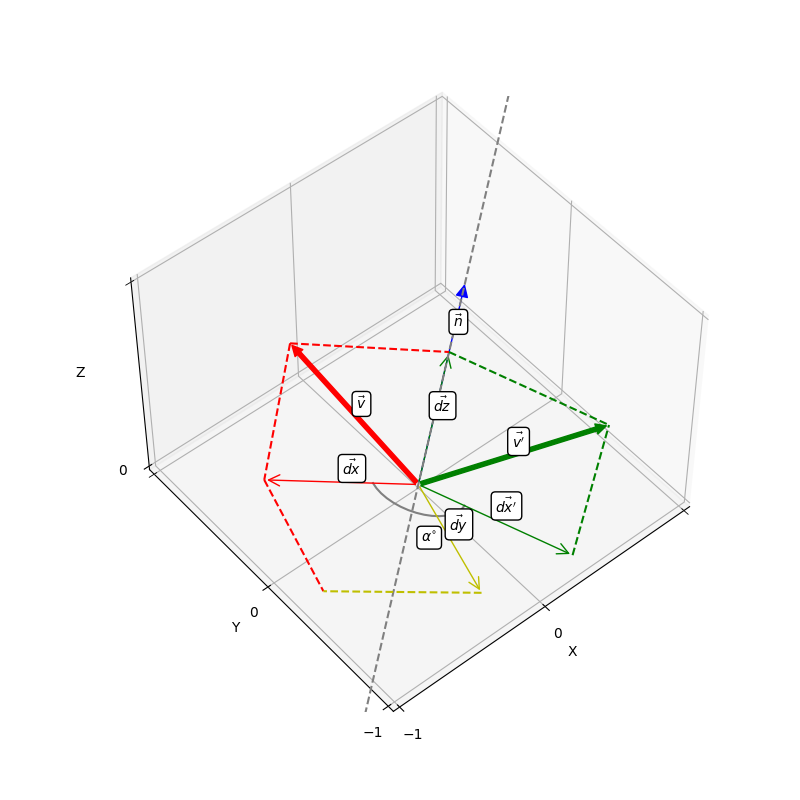
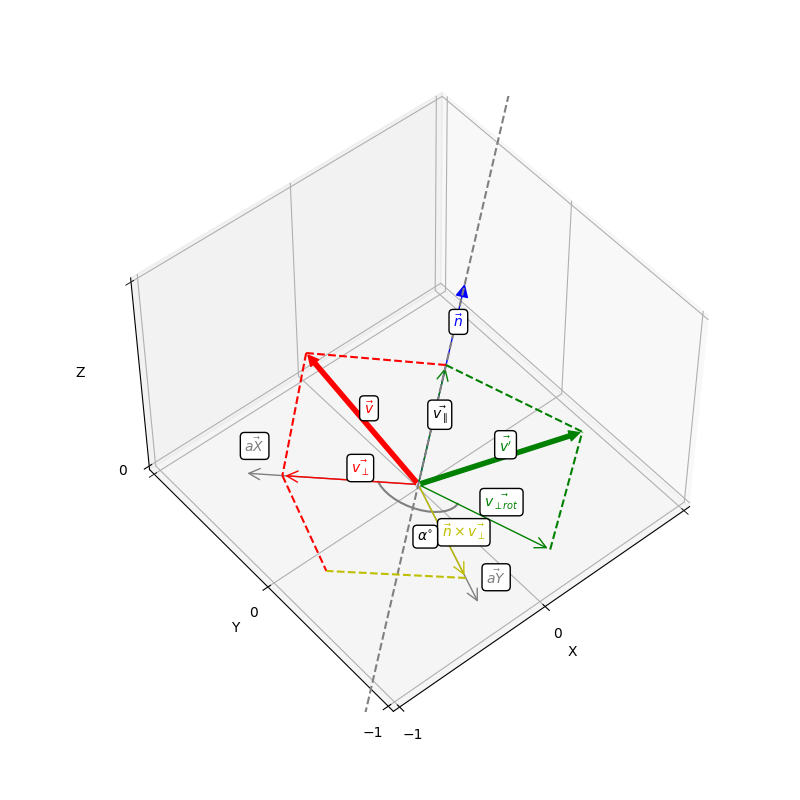
rotation - finish

diff --git a/articles/article1/figures.py b/articles/article1/figures.py
@@ -327,23 +327,23 @@ def picture8():
     ax.add_artist(Annotation3D(r'$\vec{a}$', np.multiply(v_a, 0.5), 
                     xytext=(0, 10),
                     textcoords='offset points',
-                    bbox=dict(boxstyle="round", fc="white")))
+                    bbox=dict(boxstyle="round", fc="white"), c="r"))
 
     ax.add_artist(Annotation3D(r'$\vec{b}$', np.multiply(v_b, 0.5), 
                     xytext=(5, 10),
                     textcoords='offset points',
-                    bbox=dict(boxstyle="round", fc="white")))
+                    bbox=dict(boxstyle="round", fc="white"), c="g"))
 
     ax.add_artist(Annotation3D(r'$\vec{c}$', np.multiply(v_c, 0.5), 
                     xytext=(0, 10),
                     textcoords='offset points',
-                    bbox=dict(boxstyle="round", fc="white")))
+                    bbox=dict(boxstyle="round", fc="white"), c="b"))
     ax.view_init(elev=15., azim=60)
     ax.figure.savefig('./assets/Figure_8.png')
 
 
 def picture9():
-    v = np.array([-0.6, 0.3, 0.9])
+    v = np.array([-0.5, 0.3, 0.8])
     n = np.array(normalized([1, 0, 3]))
     angle = 140 * (math.pi / 180)
 
@@ -353,10 +353,14 @@ def picture9():
     v_dx_dy = dx * math.cos(angle) + dy * math.sin(angle)
     v_ = v_dx_dy + dz
 
+    axisX, axisY = normalized(dx), normalized(dy)
+
     fig, ax = create_plot_with_grid_3d()
     ax.set_xlim(-1, 1)
     ax.set_ylim(-1, 1)
     ax.set_zlim(0, 1)
+    ax.add_artist(Arrow3D(0, 0, 0, *list(axisX), mutation_scale=20, arrowstyle="->", fc='gray', ec='gray'))
+    ax.add_artist(Arrow3D(0, 0, 0, *list(axisY), mutation_scale=20, arrowstyle="->", fc='gray', ec='gray'))
     ax.add_artist(Arrow3D(0, 0, 0, *list(v), mutation_scale=15, fc='r', ec='r'))
     ax.add_artist(Arrow3D(0, 0, 0, *list(n), mutation_scale=20, arrowstyle="-|>", fc='b', ec='b'))
     ax.add_artist(Arrow3D(0, 0, 0, *list(v_), mutation_scale=15, fc='g', ec='g'))
@@ -383,42 +387,52 @@ def picture9():
     ax.add_artist(Annotation3D(r'$\vec{n}$', np.multiply(n, 0.75), 
                     xytext=(0, 5),
                     textcoords='offset points',
-                    bbox=dict(boxstyle="round", fc="white")))
+                    bbox=dict(boxstyle="round", fc="white"), c="b"))
 
-    ax.add_artist(Annotation3D(r'$\vec{dz}$', np.multiply(dz, 0.5), 
+    ax.add_artist(Annotation3D(r'$\vec{v_\parallel}$', np.multiply(dz, 0.5), 
                     xytext=(0, 5),
                     textcoords='offset points',
                     bbox=dict(boxstyle="round", fc="white")))
 
-    ax.add_artist(Annotation3D(r'$\vec{dx}$', np.multiply(dx, 0.5), 
+    ax.add_artist(Annotation3D(r'$\vec{v_\perp}$', np.multiply(dx, 0.5), 
                     xytext=(0, 5),
                     textcoords='offset points',
-                    bbox=dict(boxstyle="round", fc="white")))
+                    bbox=dict(boxstyle="round", fc="white"), c="r"))
 
-    ax.add_artist(Annotation3D(r'$\vec{dy}$', np.multiply(dy, 0.5), 
-                    xytext=(0, 5),
+    ax.add_artist(Annotation3D(r'$\vec{n} \times \vec{v_\perp}$', np.multiply(dy, 0.5), 
+                    xytext=(0, -5),
                     textcoords='offset points',
-                    bbox=dict(boxstyle="round", fc="white")))
+                    bbox=dict(boxstyle="round", fc="white"), c="y"))
 
     ax.add_artist(Annotation3D(r'$\vec{v}$', np.multiply(v, 0.5), 
                     xytext=(0, 5),
                     textcoords='offset points',
-                    bbox=dict(boxstyle="round", fc="white")))
+                    bbox=dict(boxstyle="round", fc="white"), c="r"))
 
     ax.add_artist(Annotation3D(r"$\vec{v'}$", np.multiply(v_, 0.5), 
                     xytext=(0, 5),
                     textcoords='offset points',
-                    bbox=dict(boxstyle="round", fc="white")))
+                    bbox=dict(boxstyle="round", fc="white"), c="g"))
 
-    ax.add_artist(Annotation3D(r"$\vec{dx'}$", np.multiply(v_dx_dy, 0.5), 
-                    xytext=(0, 5),
+    ax.add_artist(Annotation3D(r"$\vec{v_{\perp rot}}$", np.multiply(v_dx_dy, 0.5), 
+                    xytext=(0, 7),
                     textcoords='offset points',
-                    bbox=dict(boxstyle="round", fc="white")))
+                    bbox=dict(boxstyle="round", fc="white"), c="g"))
 
     ax.add_artist(Annotation3D(r"$\alpha^{\circ}$", np.multiply(normalized(dx + v_dx_dy), 0.4), 
                     xytext=(0, -10),
                     textcoords='offset points',
                     bbox=dict(boxstyle="round", fc="white")))
+
+    ax.add_artist(Annotation3D(r"$\vec{aX}$", np.multiply(axisX, 1.0), 
+                    xytext=(0, 15),
+                    textcoords='offset points',
+                    bbox=dict(boxstyle="round", fc="white"), c="gray"))
+
+    ax.add_artist(Annotation3D(r"$\vec{aY}$", np.multiply(axisY, 1.0), 
+                    xytext=(5, 15),
+                    textcoords='offset points',
+                    bbox=dict(boxstyle="round", fc="white"), c="gray"))
 
     ax.view_init(elev=50, azim=-130)
     ax.figure.savefig('./assets/Figure_9.png')

diff --git a/articles/article1/ru.md b/articles/article1/ru.md
@@ -14,7 +14,7 @@
 $\vec v = (x, y)^T$, где $x$ и $y$ - компоненты вектора, значения проекций вектора на оси двумерных координат. И мы видим прямоугольный треугольник, где $x$ и $y$ - это длины катетов, $l$ - выходит длина его гипотенузы. По теореме Пифагора получается, что $l = \sqrt{x^2 + y^2}$. Значит $l = |\vec v| = \sqrt{x^2 + y^2}$. Вид формулы сохраняется и для векторов большей размерности, например -- $l = |\vec v| = |\begin{pmatrix} x & y & z & w\end{pmatrix}^T| = \sqrt{x^2 + y^2 + z^2 + w^2}$.
 
 ### Скалярное произведение.
-Теперь разберемся с тем, что такое скалярное произведение векторов. Это сумма произведение их компонентов: $s = \vec a \cdot \vec b = a_x \cdot b_x + a_y \cdot b_y + a_z \cdot b_z$. Но так как мы знаем, что вектора - это матрицы, то тогда удобнее записать это в таком виде: $s = \vec{a}^T \vec{b}$. Это же произведение можно записать в другом виде: $s = {\vec a}^T \cdot \vec b = |\vec a| \cdot |vec b| \cdot \cos(\delta)$, где $\delta$ - угол между векторами $\vec a$ и $\vec b$ (для двумерного случая эта формула доказывается через теорему косинусов). По этой формуле можно заключить, что скалярное произведение - это мера сонаправленности векторов. Ведь, если $\delta = 0^{\circ}$, то $\cos(\delta) = 1$, и $s$ - это просто произведение длин векторов. Так как $\cos(\delta)$ - не может быть больше 1, то это максимальное значение, которые мы можем получить, изменяя только угол $\delta$. Минимальное значение $\cos(\delta)$ будет равно -1, и получается при $\delta = 180^{\circ}$, т.е. когда вектора смотрят в противоположные направления. Также заметим, что при $\delta = 90^{\circ}$ $\cos(\delta)=0$, а значит какие бы длины не имели вектора $\vec a$ и $\vec b$ -- $s = 0$. Можно в таком случае сказать, что вектора не имеют общего направления, и называются ортогональными. 
+Теперь разберемся с тем, что такое скалярное произведение векторов. Это сумма произведение их компонентов: $s = \vec a \cdot \vec b = a_x \cdot b_x + a_y \cdot b_y + a_z \cdot b_z$. Но так как мы знаем, что вектора - это матрицы, то тогда удобнее записать это в таком виде: $s = \vec{a}^T \vec{b}$. Это же произведение можно записать в другом виде: $s = {\vec a}^T \cdot \vec b = |\vec a| \cdot |vec b| \cdot \cos{\delta}$, где $\delta$ - угол между векторами $\vec a$ и $\vec b$ (для двумерного случая эта формула доказывается через теорему косинусов). По этой формуле можно заключить, что скалярное произведение - это мера сонаправленности векторов. Ведь, если $\delta = 0^{\circ}$, то $\cos{\delta} = 1$, и $s$ - это просто произведение длин векторов. Так как $\cos{\delta}$ - не может быть больше 1, то это максимальное значение, которые мы можем получить, изменяя только угол $\delta$. Минимальное значение $\cos{\delta}$ будет равно -1, и получается при $\delta = 180^{\circ}$, т.е. когда вектора смотрят в противоположные направления. Также заметим, что при $\delta = 90^{\circ}$ $\cos{\delta}=0$, а значит какие бы длины не имели вектора $\vec a$ и $\vec b$ -- $s = 0$. Можно в таком случае сказать, что вектора не имеют общего направления, и называются ортогональными. 
 Также при помощи скалярного произведения, мы можем записать формулу длины вектора красивее: $|\vec v| = \sqrt{\vec{v}^T \vec v}$.
 
 ### Проекция вектора на другой вектор
@@ -30,7 +30,7 @@ $\vec v = (x, y)^T$, где $x$ и $y$ - компоненты вектора, з
 Иначе говоря, мы хотим найти состовляющую $\vec b$ в $\vec a$, т.е. такое значение $t$, чтобы $\vec c = \vec a \cdot t$ и $|\vec c - \vec b| \rightarrow min$
 
 Расстояние между точками $B$ и $C$ будет минимальным, если $\angle OCB = 90^\circ$. Получаем прямоуголный треугольник - $OCB$. Обозначим $\alpha = \angle COB$. Мы значем, что $\cos{\alpha} = \frac{|OC|}{|OB|}$ по определению косинуса через соотношение сторон прямоугольного треугольника ($OB$ - гипотенуза, $OC$ - прилежащий катет).
-Также возьмем скалярное произведение $s = \vec a \cdot \vec b = |\vec a| \cdot |\vec b| \cdot \cos(\alpha)$. Отсюда следует, что $\cos(\alpha) = \frac {\vec a \cdot \vec b } {|\vec a| \cdot |\vec b|}$. А значит $\frac{|OC|}{|OB|} = \frac {\vec a \cdot \vec b } {|\vec a| \cdot |\vec b|}$. Тут вспоминаем, что $OC$ - это искомый вектор $\vec c$, а $OB$ - $\vec b$, и получаем $\frac{|\vec c|}{|\vec b|} = \frac {\vec a \cdot \vec b } {|\vec a| \cdot |\vec b|}$. Умножаем обе части на $|\vec b|$ и получаем - $|\vec c| = \frac {\vec a \cdot \vec b } {|\vec a|}$. Теперь мы знаем длину $\vec c$. Вектор $\vec c$ отличается от вектора $\vec a$ длинной, а значит через соотношение длин можно получить: $\vec c = \vec a \cdot \frac{|\vec c|}{|\vec a|^2}$. И мы можем вывести финальные формулы:  
+Также возьмем скалярное произведение $s = \vec a \cdot \vec b = |\vec a| \cdot |\vec b| \cdot \cos{\alpha}$. Отсюда следует, что $\cos{\alpha} = \frac {\vec a \cdot \vec b } {|\vec a| \cdot |\vec b|}$. А значит $\frac{|OC|}{|OB|} = \frac {\vec a \cdot \vec b } {|\vec a| \cdot |\vec b|}$. Тут вспоминаем, что $OC$ - это искомый вектор $\vec c$, а $OB$ - $\vec b$, и получаем $\frac{|\vec c|}{|\vec b|} = \frac {\vec a \cdot \vec b } {|\vec a| \cdot |\vec b|}$. Умножаем обе части на $|\vec b|$ и получаем - $|\vec c| = \frac {\vec a \cdot \vec b } {|\vec a|}$. Теперь мы знаем длину $\vec c$. Вектор $\vec c$ отличается от вектора $\vec a$ длинной, а значит через соотношение длин можно получить: $\vec c = \vec a \cdot \frac{|\vec c|}{|\vec a|^2}$. И мы можем вывести финальные формулы:  
 $t = \frac {\vec a \cdot \vec b } {|\vec a|^2} = \frac {{\vec a}^T \vec b}{{\vec a}^T \vec a}$ и  
 $\vec c = \vec a \cdot \frac {{\vec a}^T \vec b}{{\vec a}^T \vec a}$
 
@@ -53,20 +53,22 @@ $\vec c = \vec a \cdot {(\vec a}^T \vec b)$
 $x = \vec{aX}^T \vec{v_i} = \begin{pmatrix} 1 & 0 \end{pmatrix}^T \vec v = v_x$  
 $y = \vec{aY}^T \vec{v_i} = \begin{pmatrix} 0 & 1 \end{pmatrix}^T \vec v = v_y$  
 Сюрприз - они совпадают с компонентами наших векторов, которые уже и являются проекциями вектора на оси. 
-Теперь попробуем как-то изменить нашу фигуру - повернем ее на угол $\alpha$. Для этого повернем векторы $\vec{aX}$ и $\vec{aY}$, задающих оси координат. Поворот вектора $\begin{pmatrix} 1 & 0 \end{pmatrix}^T$ (ось $X$ - $\vec{aX}$) задаются косинусом и синусом угла - $\vec{aX}=rotate(\begin{pmatrix} 0 & 1 \end{pmatrix}^T, \alpha) = \begin{pmatrix} \cos(\alpha) & \sin(\alpha) \end{pmatrix}^T$. А чтобы получить вектор оси $Y$, возьмем перпендикуляр от $\vec{aX}$: $\vec{aY}=\begin{pmatrix} -\sin(\alpha) & \cos(\alpha) \end{pmatrix}^T$. Выполнив эту трансформацию, получаем новую фигуру:  
+Теперь попробуем как-то изменить нашу фигуру - повернем ее на угол $\alpha$. Для этого повернем векторы $\vec{aX}$ и $\vec{aY}$, задающих оси координат. Поворот вектора $\begin{pmatrix} 1 & 0 \end{pmatrix}^T$ (ось $X$ - $\vec{aX}$) задаются косинусом и синусом угла - $\vec{aX}=rotate(\begin{pmatrix} 0 & 1 \end{pmatrix}^T, \alpha) = \begin{pmatrix} \cos{\alpha} & \sin{\alpha} \end{pmatrix}^T$. А чтобы получить вектор оси $Y$, возьмем перпендикуляр от $\vec{aX}$: $\vec{aY}=\begin{pmatrix} -\sin{\alpha} & \cos{\alpha} \end{pmatrix}^T$. Выполнив эту трансформацию, получаем новую фигуру:  
 $\vec{v_i'} = \begin{pmatrix} \vec{v_i}^T \vec{aX} & \vec{v_i}^T \vec{aY} \end{pmatrix}^T$  
 
 ![$\alpha=20^\circ$](./assets/Figure_4.png)
 
 Вектора $\vec{aX}$ и $\vec{aY}$ являются ортонормированным базисом, потому как вектора ортогональны между собой (а значит базис ортогонален), а вектора имеют единичную длину, т.е. нормированы.
 
-Теперь мы говорим о нескольких системах координат - базовая система координат - назовем ее мировой, и локальную для нашего объекта, которую мы поворачивали. Также удобно объединить наш набор векторов в одну матрицу - $R = \begin{pmatrix} \vec{aX} & \vec{aY} \end{pmatrix} = \begin{pmatrix} \cos{\alpha} & -\sin(\alpha) \\ \sin(\alpha) & \cos(\alpha) \end{pmatrix}$  
+Теперь мы говорим о нескольких системах координат - базовая система координат - назовем ее мировой, и локальную для нашего объекта, которую мы поворачивали. Также удобно объединить наш набор векторов в одну матрицу - $R = \begin{pmatrix} \vec{aX} & \vec{aY} \end{pmatrix} = \begin{pmatrix} \cos{\alpha} & -\sin{\alpha} \\ \sin{\alpha} & \cos{\alpha} \end{pmatrix}$  
 Тогда $\vec{v_i'} = \begin{pmatrix} \vec{v_i}^T \vec{aX} & \vec{v_i}^T \vec{aY} \end{pmatrix}^T = \begin{pmatrix} \vec{aX} & \vec{aY} \end{pmatrix} \vec{v_i} = R \cdot \vec{v_i}$.
-Короче $\vec{v_i'} = R \cdot \vec{v_i}$.  
-Матрица $R$, состовляющая ортонормированный базис и описывающая поворот, называется матрицей поворота. Также имеет ряд полезных свойств, которые следует иметь ввиду:  
+В итоге -- $\vec{v_i'} = R \cdot \vec{v_i}$.  
+Матрица $R$, состовляющая ортонормированный базис и описывающая поворот, называется матрицей поворота. 
+Также матрица поворота имеет ряд полезных свойств, которые следует иметь ввиду:  
+* При $R = I$, где $I$ - единичная матрица, поворота никакого не произойдет, так в таком случае локальные оси совпадают с мировыми. Т.е. $I$ - можно сказать задает нулевой поворот.
 * $|R|=1|$ - определитель матрицы равен 1.
 * $R^T = R^{-1}$. 
-* $R^T R = R^{-1} R = I$, где $I$ - единичная матрица.  
+* $R^T R = R^{-1} R = I$. 
 $R^T R = \begin{pmatrix}\vec{aX} & \vec{aY}\end{pmatrix}^T \begin{pmatrix}\vec{aX} & \vec{aY}\end{pmatrix} = \begin{pmatrix}\vec{aX}^T\vec{aX} & \vec{aX}^T\vec{aY} \\ \vec{aY}^T\vec{aX} & \vec{aY}^T\vec{aY}\end{pmatrix} = \begin{pmatrix} 1 & 0 \\ 0 & 1 \end{pmatrix}$.
 * $\vec{v'} = R \vec v \Rightarrow |\vec{v'}|=|\vec v|$, поворот не меняет длины вектора.
 * зная $\vec{v'}$ и $R$, можем получить исходный вектор $\vec v$ - $\vec v = R^{-1} \vec{v'} = R^T \vec{v'}$. Т.е. умножая вектор на матрицу поврота мы выполняем преобразование координат вектора из локальной системы координат объекта в мировую, но также мы можем поступать и наоборот - преобразовывать мировые координаты в локальную систему координат объекта, умножая на обратную матрицу поврота. Эти моменты хорошо бы хорошо понимать.
@@ -78,7 +80,7 @@ $\vec{{v'}_i} = R_b R_a \vec{v_i}$.
 
 Обозначим $R_c = R_b R_a$, тогда $\vec{{v'}_i} = R_c \vec{v_i}$. И из двух операций мы получили одну. Так как поворот - это линейное преобразование (описали ее при помощи одной матрицы), множество преобразований можно описать одной матрицей, что сильно упрощает над ними работу.
 
-### Масштабирование
+### Масштабирование в двумерном пространстве
 
 Масштабировать объект достаточно просто, нужно только умножить координаты точек на коефициент масштаба: $\vec{v_i'} = s \cdot \vec{v_i}$. Если мы хотим масштабировать объект на разную величину по разным осям, то формула принимает вид: $\vec{v_i'} = \begin{pmatrix} s_x \cdot {v_i}_x & s_y \cdot {v_i}_y \end{pmatrix}^T$. Для удобства переведем операцию в матричный вид: $S = \begin{pmatrix} s_x & 0 \\ 0 & s_y \end{pmatrix}, \vec{v_i'} = S \cdot \vec{v_i}$.
 
@@ -145,5 +147,41 @@ $\vec c = \begin{pmatrix}a_y \cdot b_z - a_z \cdot b_y & a_z \cdot b_x - a_x \cd
 
 ### Поворот вектора воруг заданной оси
 
+Теперь рассмотрим операцию, позволяющую реализовать поворот вектора вокруг оси.  
+Возьмем вектор $\vec n$ - описывающий ось, вокруг которой нужно повернуть вектор $\vec v$ на угол $\alpha$. Результиру.щий вектор обозначим как $\vec{v'} = rotate(\vec n, \alpha, \vec v)$. Иллюстрируем процесс: 
 
+![$\alpha={140^{\circ}}$](./assets/Figure_9.png)
 
+Вектор $\vec n$ мы можем разложить сумму векторов: вектора, параллельный к вектору $\vec n$ - $\vec{v_\parallel}$, и вектора, перпендикулярному к вектору к вектору $\vec n$ - $\vec{v_{\perp}}$. $\vec v = \vec{v_\parallel} + \vec{v_{\perp}}$ 
+Вектор $\vec{v_\parallel}$ - это проекция вектра $\vec v$ на вектор $\vec n$. Т.к. $\vec n$ - нормализованный вектор, то:  
+
+$\vec{v_\parallel} = \vec{n} \cdot \vec{n}^T \vec{v}$
+Та часть $\vec v$, которая принадлежит оси вращения ($\vec{v_parallel}$) не измениться во время вращения. Повернуть нам нужно только $\vec{v_{\perp}}$ в плоскости перпендикулярной к $\vec n$ на угол $\alpha$, Обозначим этот вектор как $\vec{v_{\perp rot}}$. Тогда наш искомый вектор -- $\vec{v'} = \vec{v_\parallel} + \vec{v_{\perp rot}}$
+Вектор $\vec{v_{\perp}}$ можем найти следующим образом: $\vec{v_{\perp}} = \vec v - \vec{v_\parallel}$
+Для того, чтобы повернуть $\vec{v_{\perp}}$, выведем оси $X$ и $Y$ в плоскости, в который будем выполнять поворот. Это должны быть два ортогональных нормализованных вектора, ортогональных к $\vec n$. Один ортогональный вектор у нас уже есть -- $\vec{v_{\perp}}$, нормализуем его и обозначим как ось $X$ -- $\vec{aX} = \frac{\vec{v_{\perp}}}{|\vec{v_{\perp}}|}$. 
+Теперь получим вектор оси $Y$. Это должен быть вектор, ортогональный к $n$ и $\vec{aX}$ (т.е. и к $\vec{v_{\perp}}$). Получить его можно через векторное произведение: $\vec{d_y} = \vec n \times \vec{v_{\perp}}$. И вектор оси $\vec{aX} = \frac{\vec{d_y}}{|\vec{d_y}|}$. По свойству векторного произведения $|\vec{d_y}|$ будет равно площади параллелограмма, образуемого двумя исходными векторами ($n$ и $\vec{aX}$). Так как вектора ортогональны, то у нас будет не параллелограмм, а прямоуголник, а значит $|\vec{d_y}| = |\vec{n}| \cdot |\vec{v_{\perp}}|$. $|\vec{n}| = 1 \Rightarrow |\vec{d_y}| = |\vec{v_{\perp}}|$. Значит $\vec{aY} = \frac{\vec n \times \vec{v_{\perp}}}{|\vec{v_{\perp}}|}$.  
+Поворот двумерного вектора $\vec v = \begin{pmatrix} 1 & 0 \end{pmatrix}^T$ на угол $\alpha$ можно получить через синус и косинус -- $rotate2D(\vec v, \alpha) = \begin{pmatrix} \cos{\alpha} & \sin{\alpha} \end{pmatrix}^T$. Т.к. $\vec{v_{\perp}}$ в координатах полученной плоскости сонаправлен с осью $X$, то он будет равен $\begin{pmatrix} |\vec{v_{\perp}}| & 0 \end{pmatrix}^T = \begin{pmatrix} 1 & 0 \end{pmatrix}^T \cdot |\vec{v_{\perp}}|$. Этот вектор после поврота -- $rotate2D(\begin{pmatrix} 0 & 1 \end{pmatrix}^T, \alpha) \cdot |\vec{v_{\perp}}| = \begin{pmatrix} \cos{\alpha} & \sin{\alpha} \end{pmatrix}^T \cdot |\vec{v_{\perp}}|$. Отсюда можем вывести $\vec{v_{\perp rot}} = (\vec{aX} \cdot \cos{\alpha} + \vec{aY} \cdot \sin{\alpha}) \cdot |\vec{v_{\perp}}|$  
+$\vec{v_{\perp rot}} = (\frac{\vec{v_{\perp}}}{|\vec{v_{\perp}}|} \cdot \cos{\alpha} + \frac{\vec n \times \vec{v_{\perp}}}{|\vec{v_{\perp}}|} \cdot \sin{\alpha}) \cdot |\vec{v_{\perp}}|$  
+
+$\vec{v_{\perp rot}} = (\vec{v_{\perp}} \cdot \cos{\alpha} + \vec n \times \vec{v_{\perp}}) \cdot \sin{\alpha}$  
+Теперь мы можем получить наш искомый вектор:  
+$\vec{v'} = \vec{v_{\parallel}} + \vec{v_{\perp rot}} = \vec{v_{\parallel}} + \vec{v_{\perp}} \cdot \cos{\alpha} + (\vec n \times \vec{v_{\perp}}) \cdot \sin{\alpha}$
+
+Мы разобрались с тем, как поворачивать вектор кокруг заданной оси на заданный угол, значит теперь мы умеем использовать поворот, заданный таким образом.  
+Получить вектор оси вращения и угол из вектора Родрига не состовляет большого труда, а значит мы теперь умеем работать и с ним тоже.
+Напоминаю, что матрица поворота представляет собой три базисных вектора $R = \begin{pmatrix} \vec{aX} & \vec{aY} & \vec{aZ} \end{pmatrix}$, а углы Эйлера - три последовательных поворота вокруг осей $X$, $Y$, $Z$. Значит мы можем взять единичную матрицу, как нулевой поворот $R_0 = I$, а затем последовательно попорачивать базисные вектора вокруг нужных нам осей. В результате получим матрицу поворота соотвектвующую углам Эйлера. Например:  
+$\vec{aX'} = rotate((0, 0, 1)^T, angle_z, rotate((0, 1, 0)^T, angle_y, rotate((1, 0, 0)^T, angle_x, \vec{aX})))$  
+$\vec{aY'} = rotate((0, 0, 1)^T, angle_z, rotate((0, 1, 0)^T, angle_y, rotate((1, 0, 0)^T, angle_x, \vec{aY})))$ 
+$\vec{aZ'} = rotate((0, 0, 1)^T, angle_z, rotate((0, 1, 0)^T, angle_y, rotate((1, 0, 0)^T, angle_x, \vec{aZ})))$
+$R = \begin{pmatrix} \vec{aX'} & \vec{aY'} & \vec{aZ'} \end{pmatrix}$  
+$rotateEuler(angle_x, angle_y, angle_z, v) = R \cdot \vec v$  
+Также можно отдельно вывести матрицы вращения по каждой из осей $X$, $Y$, $Z$ ($R_x$, $R_Y$, $R_z$ соотвественно) и получить итоговую матрицу последовательным их умножением:
+$R = R_x \cdot R_y \cdot R_z$
+
+Итак, с вращением объекта разобрлись. Переходим к остальным трансформациям.  
+  
+  
+### Масштабирование в трехмерном пространстве
+Все тоже самое что и двумерном пространстве, только матрица масштабирования принимает вид: $S = \begin{pmatrix} s_x & 0 & 0 \\ 0 & s_y & 0 \\ 0 & 0 & s_z \end{pmatrix}$
+
+### Перемещение объекта
